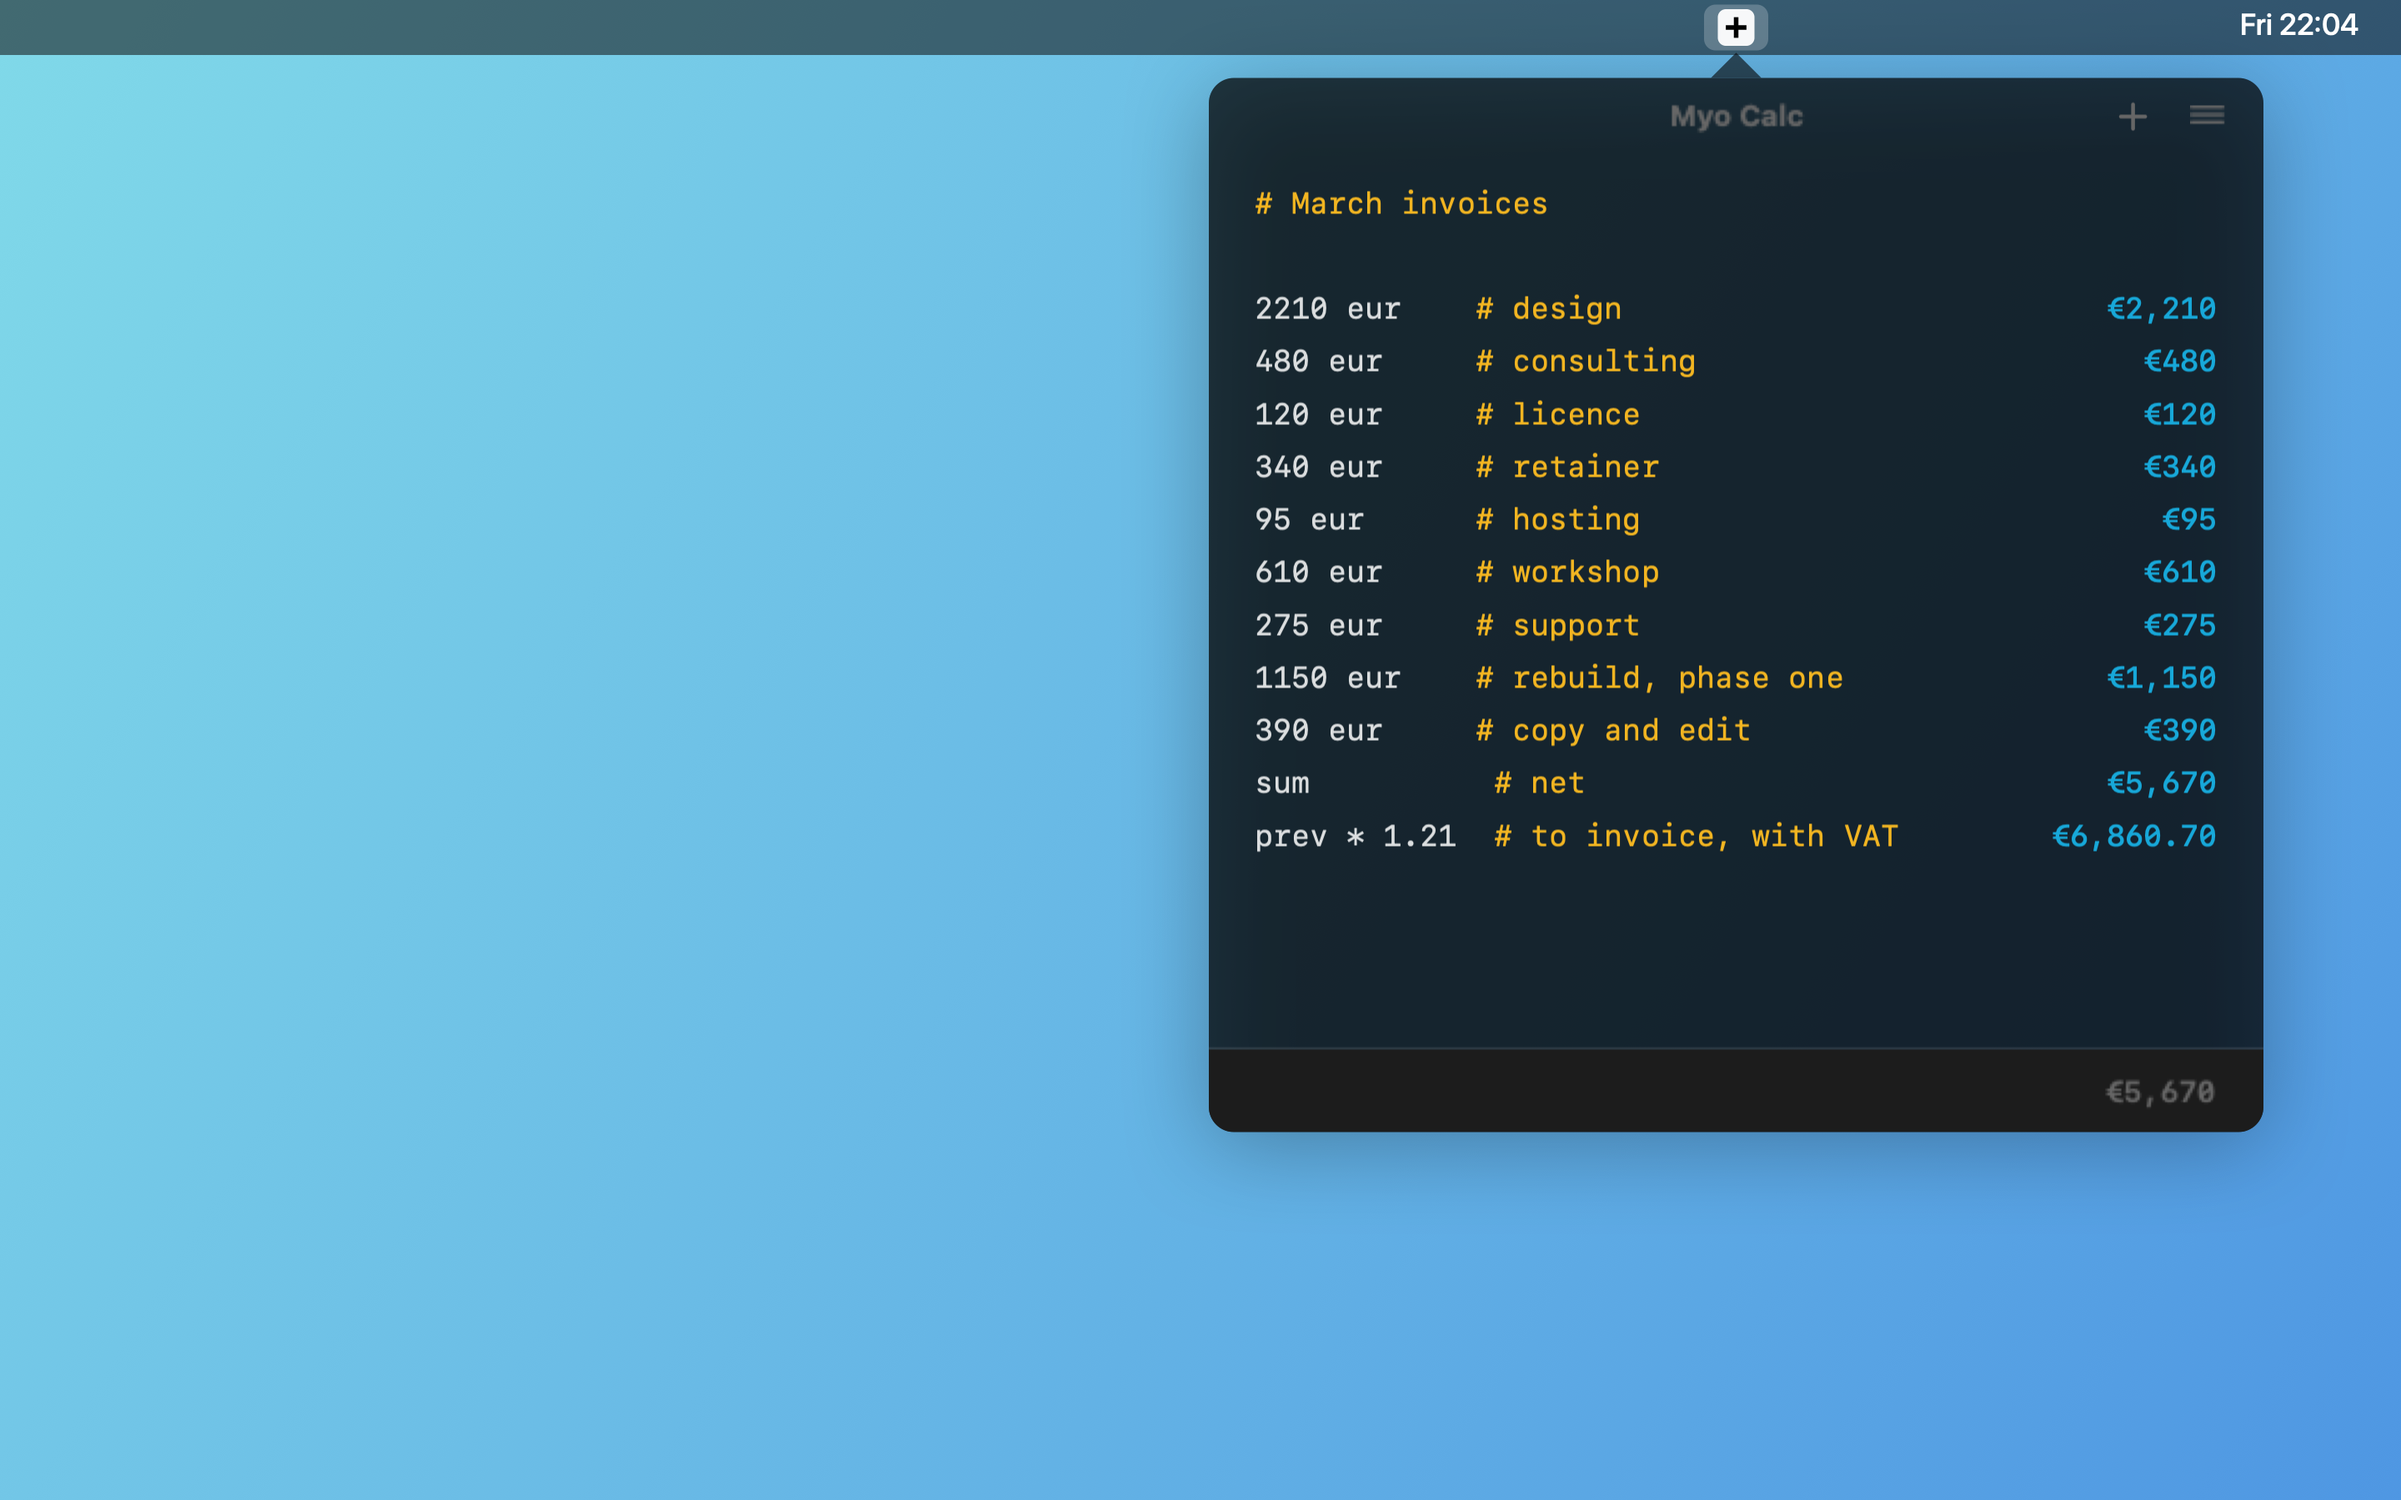
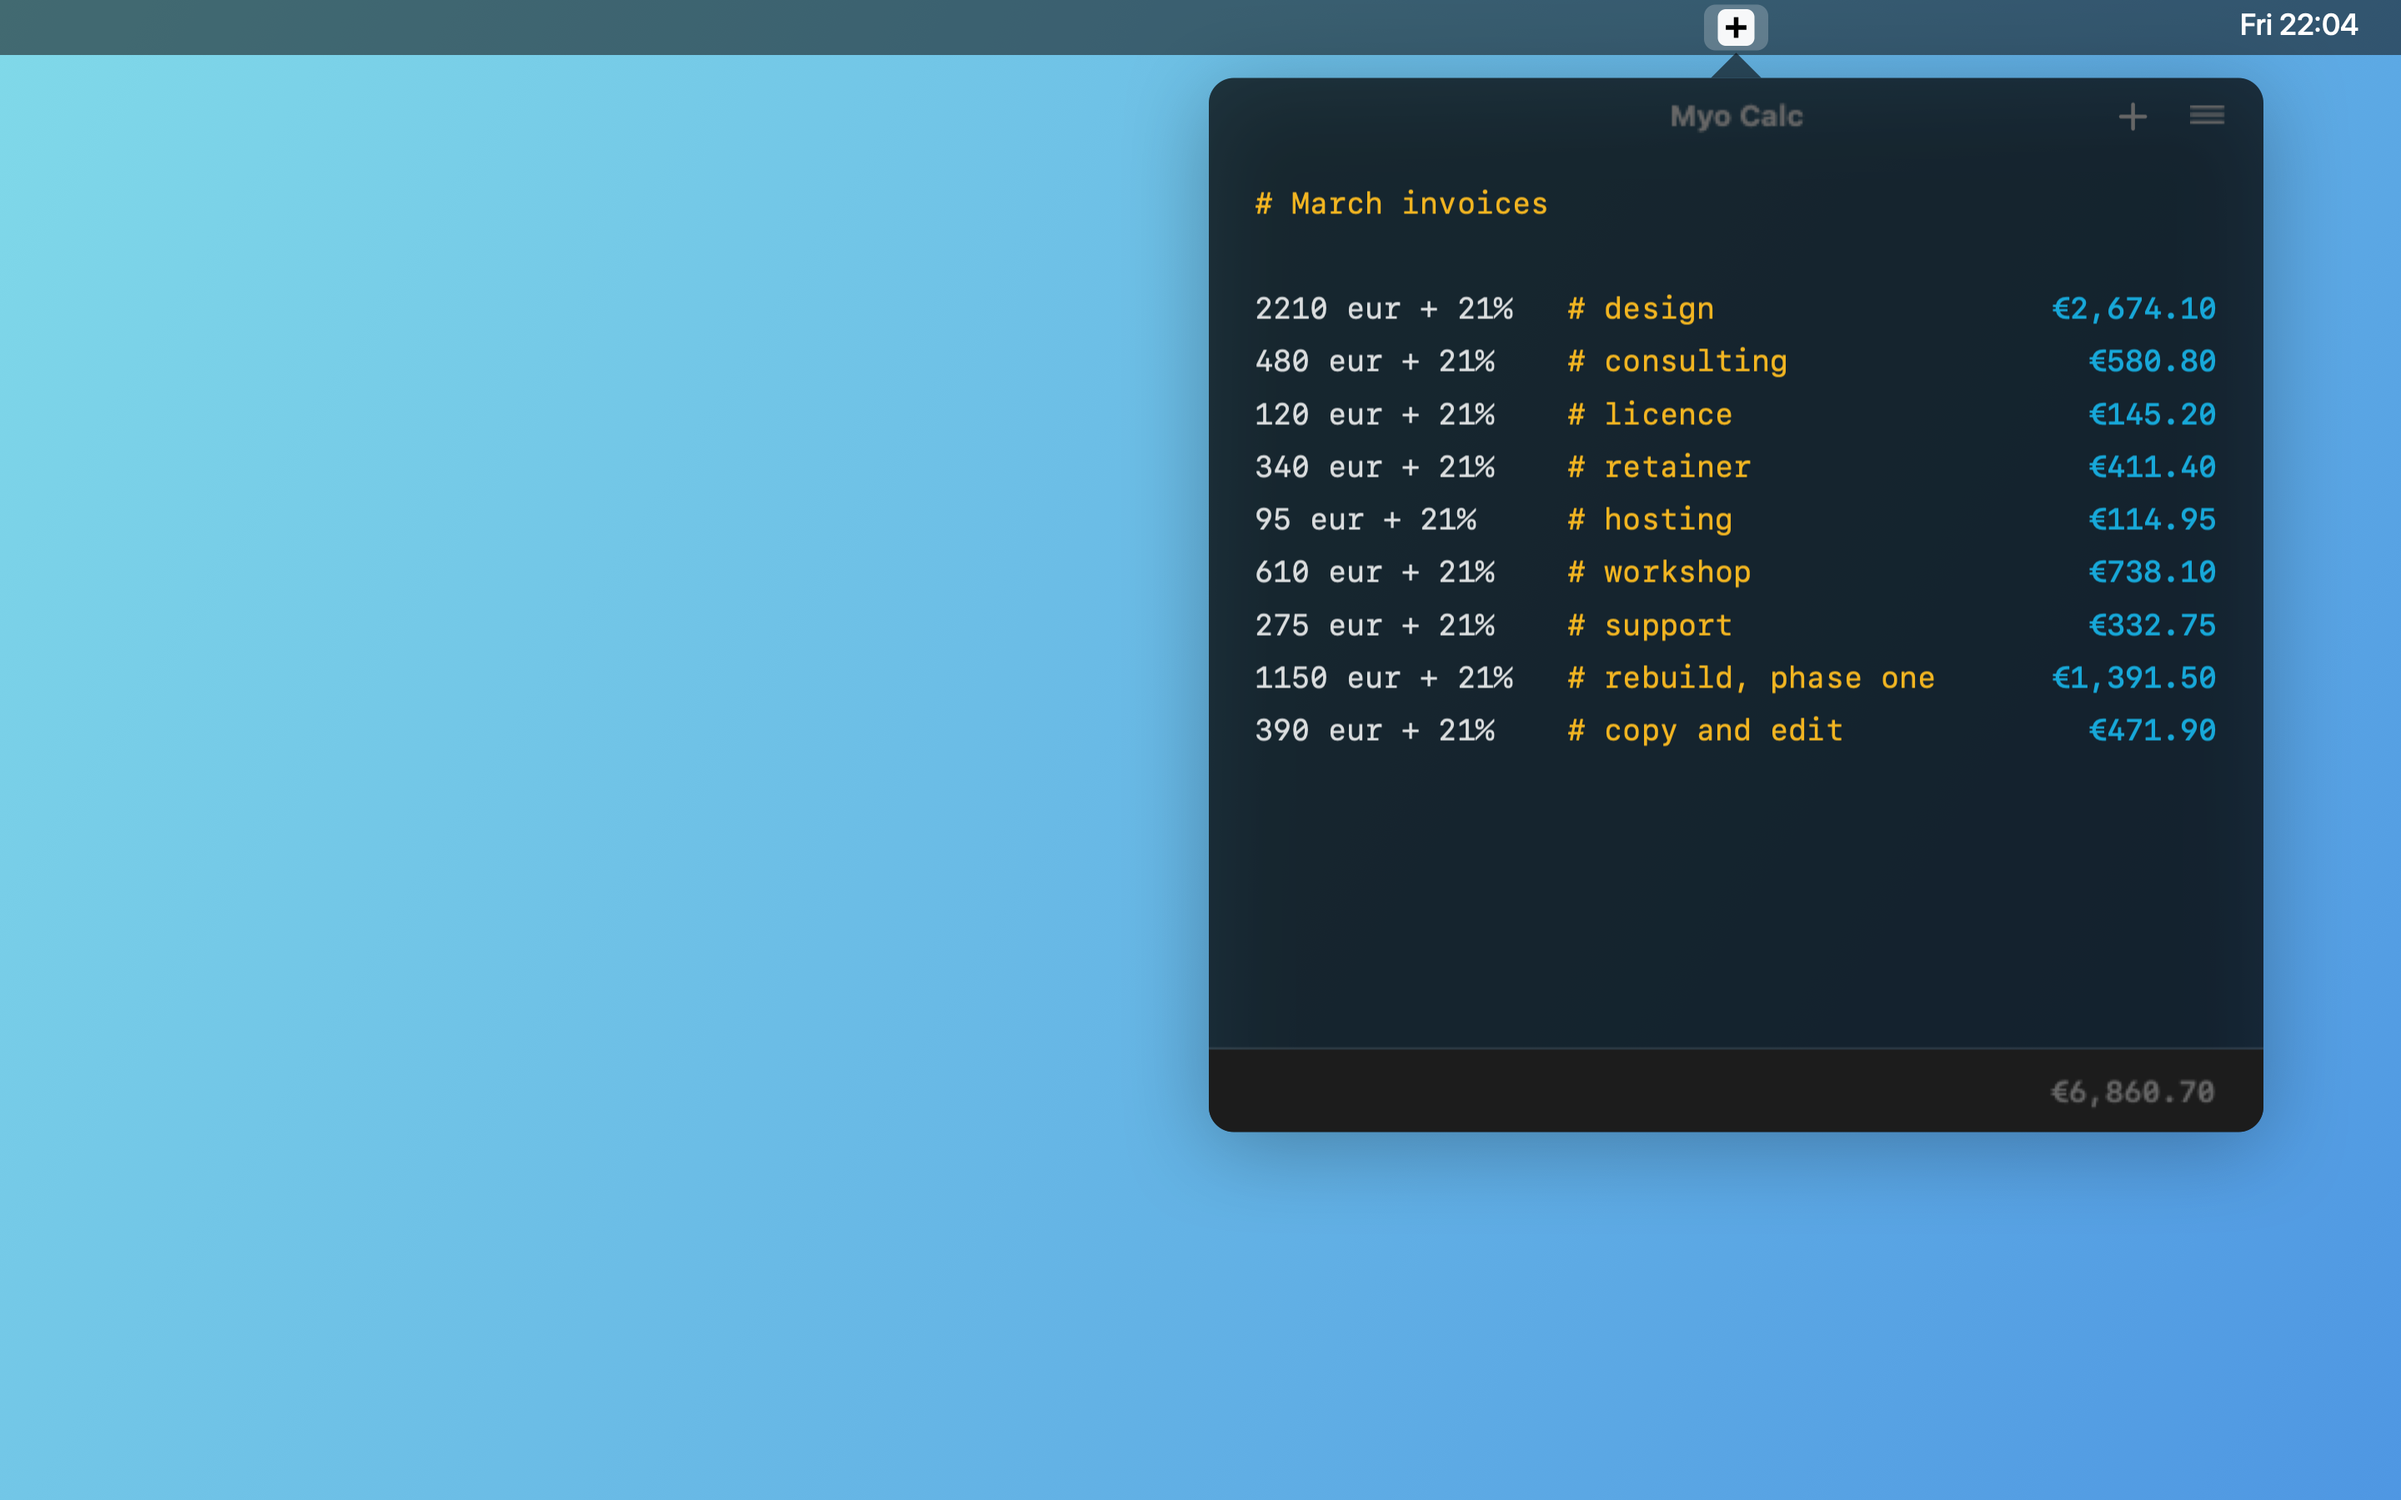
Drop sum, because the bar along the bottom is the sum
The window already adds the column up and shows it at the foot, so `sum`
answered a question that was answered anyway, and it came with a rule
about where a block begins that had to be learned before the word could
be trusted. `total` went with it, being the same function under another
name. Both are ordinary words now, free to be used as names.

`avg`, `prev` and `line` stay. None of them is a total, and the block the
average is taken over still ends at a blank line or at a line worked out
from that block.

Nothing in the folder of real sheets used any of these words, so this
breaks no sheet that exists. What it does cost is arithmetic on the total:
`sum * 1.21` had no other way to say it, and there is none now. Per line
there is — the store sheets put the VAT on each line and divide each line
by four, and the bar totals what that comes to, which reads better than
the version with a subtotal in the middle of it.

Six of the eight store sheets leaned on the word and are rewritten, along
with the copy beside two of them that promised arithmetic the sheet no
longer does.

diff --git a/Tests/ReckonCoreTests/ReckonCoreTests.swift b/Tests/ReckonCoreTests/ReckonCoreTests.swift
@@ -96,15 +96,7 @@ final class SheetTests: XCTestCase {
 		XCTAssertEqual(lines[1].formatted, "700")
 	}
 
-	func testSumAndAverageOfTheBlockAbove() {
-		let lines = sheet.evaluate("""
-		10
-		20
-		30
-		sum
-		""")
-		XCTAssertEqual(lines[3].formatted, "60")
-
+	func testAverageOfTheBlockAbove() {
 		let averaged = sheet.evaluate("""
 		10
 		20
@@ -112,6 +104,20 @@ final class SheetTests: XCTestCase {
 		avg
 		""")
 		XCTAssertEqual(averaged[3].formatted, "20")
+	}
+
+	/// Adding the column up is what the bar along the bottom is for, so the
+	/// word is not a word any more and a sheet may use it as a name.
+	func testSumIsAnOrdinaryWordNow() {
+		XCTAssertEqual(sheet.evaluateOne("sum").kind, .prose)
+
+		let lines = sheet.evaluate("""
+		sum = 500
+		sum / 2
+		""")
+
+		XCTAssertEqual(lines[0].kind, .assignment("sum"))
+		XCTAssertEqual(lines[1].formatted, "250")
 	}
 
 	func testPreviousAndLineReferences() {
@@ -126,51 +132,51 @@ final class SheetTests: XCTestCase {
 		XCTAssertEqual(lines[3].formatted, "15")
 	}
 
-	/// A subtotal closes its block, so totalling again below does not fold the
-	/// earlier total back in and count those numbers twice.
-	func testSubtotalsDoNotDoubleCount() {
+	/// A line worked out from the block closes it, so averaging again below
+	/// does not fold the earlier answer in with the numbers it came from.
+	func testABlockAnswerDoesNotFoldBackIn() {
 		let lines = sheet.evaluate("""
 		10
 		20
-		sum
-		5
-		6
-		sum
+		avg
+		4
+		8
+		avg
 		""")
 
-		XCTAssertEqual(lines[2].formatted, "30")
-		XCTAssertEqual(lines[5].formatted, "11")
+		XCTAssertEqual(lines[2].formatted, "15")
+		XCTAssertEqual(lines[5].formatted, "6")
 	}
 
-	/// The same applies when the subtotal is carried into another expression,
-	/// such as adding tax to it.
-	func testDerivedSubtotalAlsoClosesTheBlock() {
+	/// The same applies when that answer is carried into another expression.
+	func testADerivedAnswerAlsoClosesTheBlock() {
 		let lines = sheet.evaluate("""
 		100
 		200
-		sum * 1.21
+		avg * 2
 		7
-		sum
+		9
+		avg
 		""")
 
-		XCTAssertEqual(lines[2].formatted, "363")
-		XCTAssertEqual(lines[4].formatted, "7")
+		XCTAssertEqual(lines[2].formatted, "300")
+		XCTAssertEqual(lines[5].formatted, "8")
 	}
 
 	/// A blank line ends a block, so one sheet can hold several tallies.
-	func testBlankLineSeparatesTotals() {
+	func testBlankLineSeparatesBlocks() {
 		let lines = sheet.evaluate("""
 		10
 		20
-		sum
+		avg
 
-		5
-		6
-		sum
+		4
+		8
+		avg
 		""")
 
-		XCTAssertEqual(lines[2].formatted, "30")
-		XCTAssertEqual(lines[6].formatted, "11")
+		XCTAssertEqual(lines[2].formatted, "15")
+		XCTAssertEqual(lines[6].formatted, "6")
 	}
 
 	func testUnknownWordsMakeTheLineProse() {
@@ -439,25 +445,21 @@ final class CurrencyTests: XCTestCase {
 	}
 
 	func testTotallingAColumnOfPrices() {
+		let sheet = Sheet()
 		let lines = sheet.evaluate("""
 		35eur
 		45eur
 		12.50eur
-		sum
 		""")
 
-		XCTAssertEqual(lines[3].formatted, "€92.50")
+		XCTAssertEqual(sheet.grandTotal(of: lines).map { sheet.format($0) }, ["€92.50"])
 	}
 
-	func testTotallingRefusesMixedCurrencies() {
-		let lines = sheet.evaluate("""
-		35eur
-		45usd
-		sum
-		""")
+	func testArithmeticRefusesMixedCurrencies() {
+		let line = sheet.evaluateOne("35eur + 45usd")
 
-		XCTAssertNil(lines[2].value)
-		XCTAssertEqual(lines[2].error, "Cannot mix EUR and USD without an exchange rate")
+		XCTAssertNil(line.value)
+		XCTAssertEqual(line.error, "Cannot mix EUR and USD without an exchange rate")
 	}
 
 	func testMoneyVariables() {
@@ -470,13 +472,9 @@ final class CurrencyTests: XCTestCase {
 	}
 
 	func testDecimalExactnessHoldsForMoney() {
-		let lines = sheet.evaluate("""
-		0.10eur
-		0.20eur
-		sum
-		""")
+		let line = sheet.evaluateOne("0.10eur + 0.20eur")
 
-		XCTAssertEqual(lines[2].value, Quantity(Decimal(string: "0.30")!, "EUR"))
+		XCTAssertEqual(line.value, Quantity(Decimal(string: "0.30")!, "EUR"))
 	}
 }
 
@@ -510,7 +508,7 @@ final class CommentTests: XCTestCase {
 		let lines = sheet.evaluate("""
 		100
 		# 200
-		sum
+		avg
 		""")
 
 		XCTAssertEqual(lines[1].kind, .comment)
@@ -527,10 +525,10 @@ final class CommentTests: XCTestCase {
 		let lines = sheet.evaluate("""
 		10 # first
 		20 # second
-		sum
+		avg
 		""")
 
-		XCTAssertEqual(lines[2].formatted, "30")
+		XCTAssertEqual(lines[2].formatted, "15")
 	}
 }
 
@@ -622,15 +620,15 @@ final class GrandTotalTests: XCTestCase {
 	}
 
 	/// The bar and the block above a `sum` agree about what an amount is.
-	func testADefinitionClosesTheBlockAboveASum() {
+	func testADefinitionClosesTheBlockAbove() {
 		let lines = Sheet().evaluate("""
 		rate = 12
 		3 * rate
 		5 * rate
-		sum
+		avg
 		""")
 
-		XCTAssertEqual(lines[3].formatted, "96")
+		XCTAssertEqual(lines[3].formatted, "48")
 	}
 
 	/// Two decimals is the display. The arithmetic keeps every digit, so the
@@ -736,10 +734,10 @@ final class StoredAnswerTests: XCTestCase {
 
 	/// The calculator works from the line, never from Numi's answer to it.
 	func testTheAnswerIsNotFedBackIntoTheMath() {
-		let document = SheetDocument(text: "10\(marker)10\n20\(marker)20\nsum")
+		let document = SheetDocument(text: "10\(marker)10\n20\(marker)20\nprev * 3")
 		let lines = Sheet().evaluate(document.text)
 
-		XCTAssertEqual(lines[2].formatted, "30")
+		XCTAssertEqual(lines[2].formatted, "60")
 	}
 }
 

diff --git a/Scripts/make-mac-mockups.swift b/Scripts/make-mac-mockups.swift
@@ -103,17 +103,17 @@ func draw(_ text: String, in box: CGRect, size: CGFloat, weight: NSFont.Weight,
 /// needs a line here; one without gets the laptop and no words.
 let headlines: [String: (String, String)] = [
 	"01-invoices-vat":    ("Invoice a month\nof work",
-						   "Amounts, notes and VAT on one page. The column on the right keeps up as you type."),
+						   "VAT added on every line, and the bar along the bottom keeps the total to invoice."),
 	"02-car-service":     ("What the job\nreally cost",
 						   "Parts and labour down the page, the bill along the bottom."),
 	"03-trip-split":      ("Split a trip\nfour ways",
-						   "Add the trip up, then divide it. The total ignores lines that are already totals."),
-	"04-shopping":        ("A basket, and\nwhat is left",
-						   "Prices as you read them off the receipt."),
+						   "Divide as you go. The bar shows what each of you owes."),
+	"04-shopping":        ("A Saturday\nbasket",
+						   "Prices as you read them off the receipt, and the bar does the adding."),
 	"05-currencies":      ("Every currency\ntotals on its own",
 						   "Euros, dollars and kronor in the same list, added up separately."),
 	"06-areas":           ("Room by room,\nin square metres",
-						   "Multiply as you measure, then add ten percent for offcuts."),
+						   "Multiply as you measure. The bar keeps the running area."),
 	"07-renovation":      ("Write it the way\nyou would say it",
 						   "Commas, slashes and sizes in the description. The number still comes out."),
 	"08-freelance-week":  ("Hours times rate,\nday by day",

diff --git a/Sources/ReckonCore/Parser.swift b/Sources/ReckonCore/Parser.swift
@@ -290,8 +290,6 @@ struct Parser {
 		switch lowercased {
 		case "prev", "previous", "ans":
 			return .reference(.previous)
-		case "sum", "total":
-			return .reference(.sum)
 		case "avg", "average", "mean":
 			return .reference(.average)
 		case "line":
@@ -334,7 +332,11 @@ struct Parser {
 }
 
 enum Reserved {
+	/// Words a variable may not be called, because the parser reads them as
+	/// something else. `sum` and `total` are not among them any more: the bar
+	/// along the bottom is the total of the sheet, so the word was a second
+	/// answer to a question already answered, and it is free to be a name.
 	static let all: Set<String> = [
-		"prev", "previous", "ans", "sum", "total", "avg", "average", "mean", "line", "of"
+		"prev", "previous", "ans", "avg", "average", "mean", "line", "of"
 	]
 }

diff --git a/Sources/ReckonCore/Expr.swift b/Sources/ReckonCore/Expr.swift
@@ -3,7 +3,6 @@ import Foundation
 /// A reference to something the sheet already worked out.
 enum Reference: Equatable {
 	case previous       // prev
-	case sum            // sum / total of the block above
 	case average        // avg / average of the block above
 	case line(Int)      // line 3
 }

diff --git a/Sources/ReckonCore/Evaluator.swift b/Sources/ReckonCore/Evaluator.swift
@@ -168,9 +168,6 @@ struct Evaluator {
 			guard let value = context.previous else { throw EvaluationError.noPreviousValue }
 			return value
 
-		case .sum:
-			return try total(of: context.block)
-
 		case .average:
 			let block = context.block
 			let sum = try total(of: block)

diff --git a/README.md b/README.md
@@ -93,14 +93,19 @@ sqrt(16)             sqrt abs round floor ceil min max pow log ln
 
 10
 20
-sum                  sum, total, avg of the block above
+avg                  the average of the block above
 prev                 the line before
 line 2               a line by number
 ```
 
-A blank line ends a block, so one sheet can hold several tallies. A subtotal
-also ends its block, so totalling again lower down does not fold the earlier
-total back in and count those numbers twice.
+There is no `sum`. The bar along the bottom already adds the column up, and a
+word that answers a question the window has answered already is one more thing
+to know for nothing. `sum` and `total` are ordinary words now, free to be used
+as names.
+
+A blank line ends a block, so one sheet can hold several tallies. A line worked
+out from a block also ends it, so asking again lower down does not fold the
+earlier answer in with the numbers it came from.
 
 ## Figures with words beside them
 
@@ -143,8 +148,17 @@ other line and rewrite the whole file.
 ## The bar along the bottom
 
 Everything in the result column is added up and shown at the foot of the
-window. Totals already written into the sheet with `sum` are left out of it, so
-nothing is counted twice, and each currency gets its own line.
+window, with a line per currency.
+
+Two kinds of line are not amounts and stay out of it. A definition is a name
+for a number, not an entry, so `rate = 0.21` is not money spent. And a line
+worked out from other lines — `prev * 0.21`, `line 3 * 2` — restates figures
+that are already in the column, so counting it would count them twice. A line
+that merely uses a name is an amount like any other.
+
+Figures are shown to two decimals. That is the display only: the arithmetic
+carries every digit, so the bar adds the exact column and rounds once, at the
+end.
 
 ## Money
 
